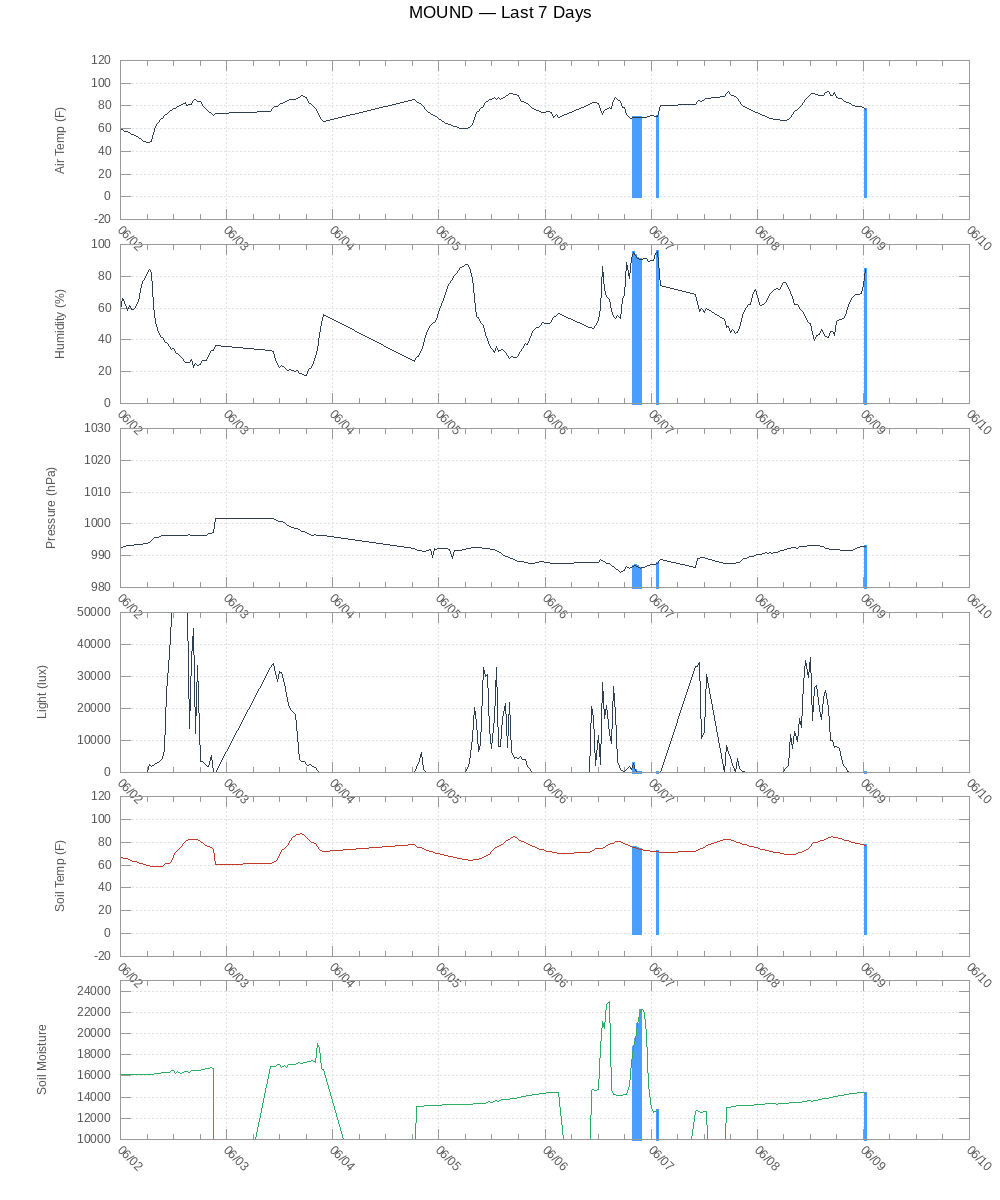
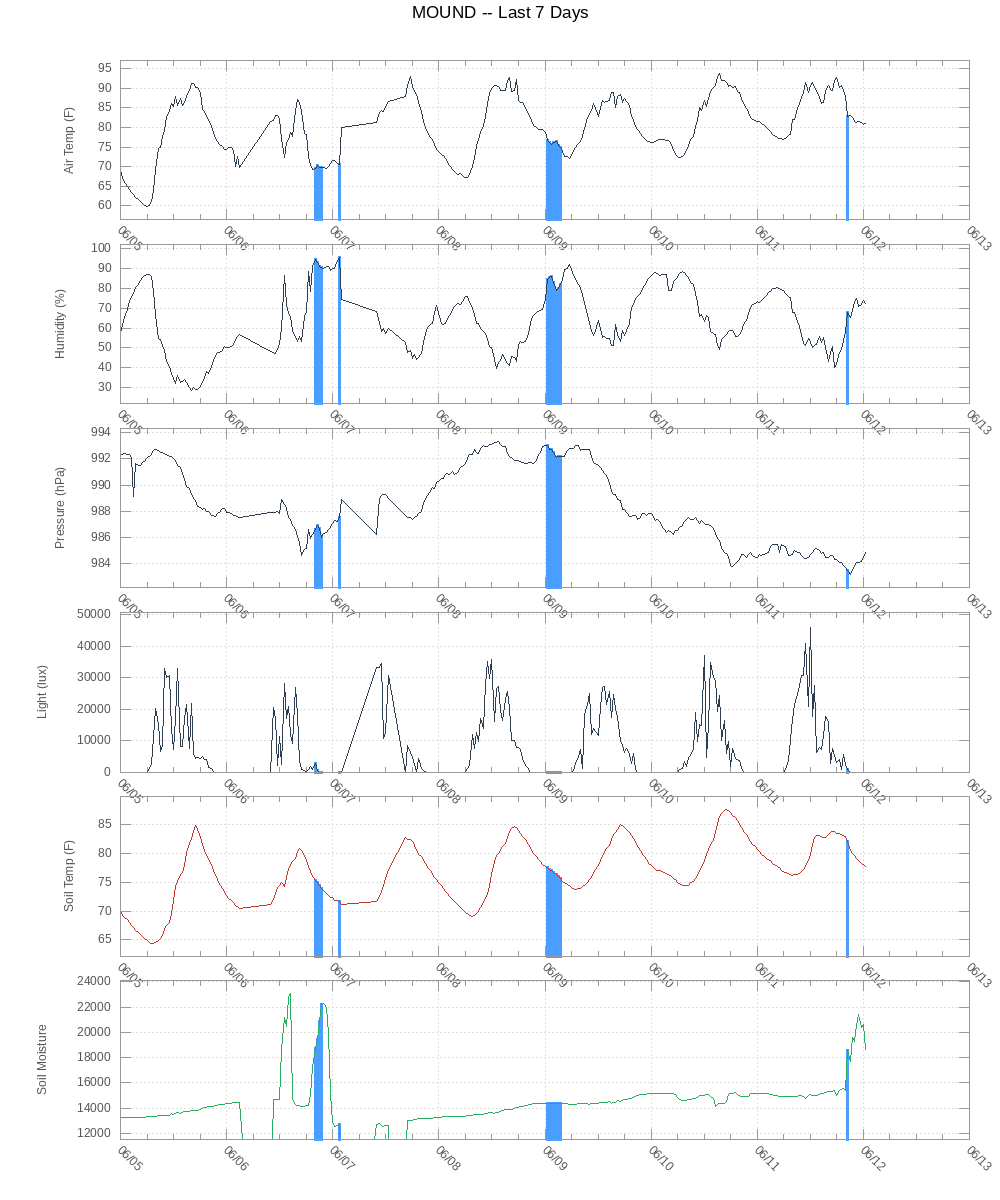
fixed random button

diff --git a/mound/index.html b/mound/index.html
@@ -38,21 +38,21 @@
 
       <hr style="border:none; border-top: 1px solid #ccc; margin: 1rem 0;">
 
-      <p><strong>Last reading:</strong> 2026-06-09 07:00:03</p>
+      <p><strong>Last reading:</strong> 2026-06-12 09:00:04</p>
 
       <table style="border:none; border-collapse:collapse; font-family:inherit; font-size:inherit; color:inherit;">
-        <tr><td style="padding: 0.2rem 1.5rem 0.2rem 0;">Air Temperature</td><td>74.8 F</td></tr>
-        <tr><td style="padding: 0.2rem 1.5rem 0.2rem 0;">Humidity</td><td>84.5%</td></tr>
-        <tr><td style="padding: 0.2rem 1.5rem 0.2rem 0;">Pressure</td><td>993.0 hPa</td></tr>
-        <tr><td style="padding: 0.2rem 1.5rem 0.2rem 0;">Light</td><td>2773 lux</td></tr>
-        <tr><td style="padding: 0.2rem 1.5rem 0.2rem 0;">Soil Temperature</td><td>73.8 F</td></tr>
-        <tr><td style="padding: 0.2rem 1.5rem 0.2rem 0;">Soil Moisture</td><td>Moist</td></tr>
+        <tr><td style="padding: 0.2rem 1.5rem 0.2rem 0;">Air Temperature</td><td>73.1 F</td></tr>
+        <tr><td style="padding: 0.2rem 1.5rem 0.2rem 0;">Humidity</td><td>82.6%</td></tr>
+        <tr><td style="padding: 0.2rem 1.5rem 0.2rem 0;">Pressure</td><td>986.4 hPa</td></tr>
+        <tr><td style="padding: 0.2rem 1.5rem 0.2rem 0;">Light</td><td>5126 lux</td></tr>
+        <tr><td style="padding: 0.2rem 1.5rem 0.2rem 0;">Soil Temperature</td><td>72.8 F</td></tr>
+        <tr><td style="padding: 0.2rem 1.5rem 0.2rem 0;">Soil Moisture</td><td>Saturated</td></tr>
         <tr><td style="padding: 0.2rem 1.5rem 0.2rem 0;">Rain</td><td>No</td></tr>
       </table>
 
       <hr style="border:none; border-top: 1px solid #ccc; margin: 1rem 0;">
 
-      <p><strong>Today -- 2026-06-09</strong></p>
+      <p><strong>Today -- 2026-06-12</strong></p>
 
       <figure>
         <img src="graphs/today.png"
@@ -85,6 +85,9 @@
 
       <p><strong>Daily Archive</strong></p>
       <ul style="list-style:none; padding:0;">
+<li><a href="graphs/archive/2026-06-11.png">2026-06-11</a></li>
+<li><a href="graphs/archive/2026-06-10.png">2026-06-10</a></li>
+<li><a href="graphs/archive/2026-06-09.png">2026-06-09</a></li>
 <li><a href="graphs/archive/2026-06-08.png">2026-06-08</a></li>
 <li><a href="graphs/archive/2026-06-07.png">2026-06-07</a></li>
 
@@ -92,7 +95,7 @@
 
     </blockquote>
 
-    <p style="font-size: 0.85rem; color: #999;">2026-06-09 · auto-generated</p>
+    <p style="font-size: 0.85rem; color: #999;">2026-06-12 · auto-generated</p>
 
   </div>
 

diff --git a/script.js b/script.js
@@ -3,7 +3,7 @@ const pages = [ "absdbs", "adena_rover", "backyard_astronomy", "brief_morning_wa
 
 function goRandom() {
   const random = pages[Math.floor(Math.random() * pages.length)];
-  window.location.href = random + ".html";
+  window.location.href = "/" + random + ".html";
 }
 
 